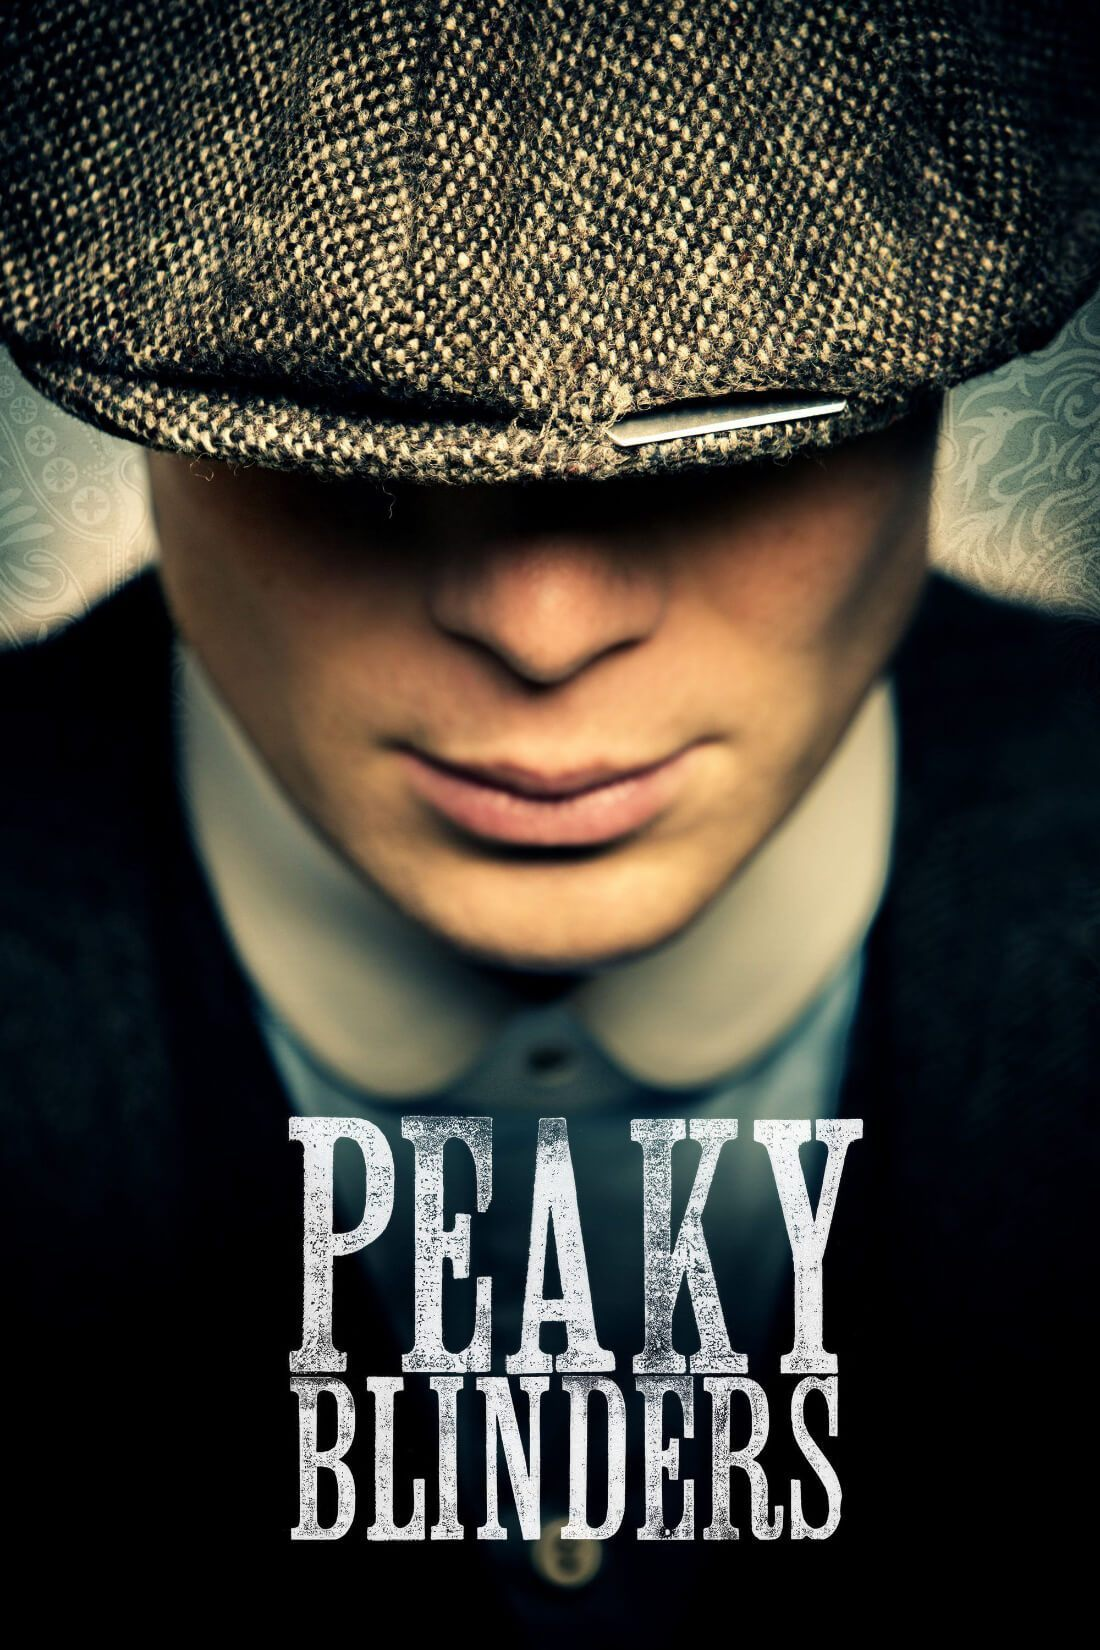
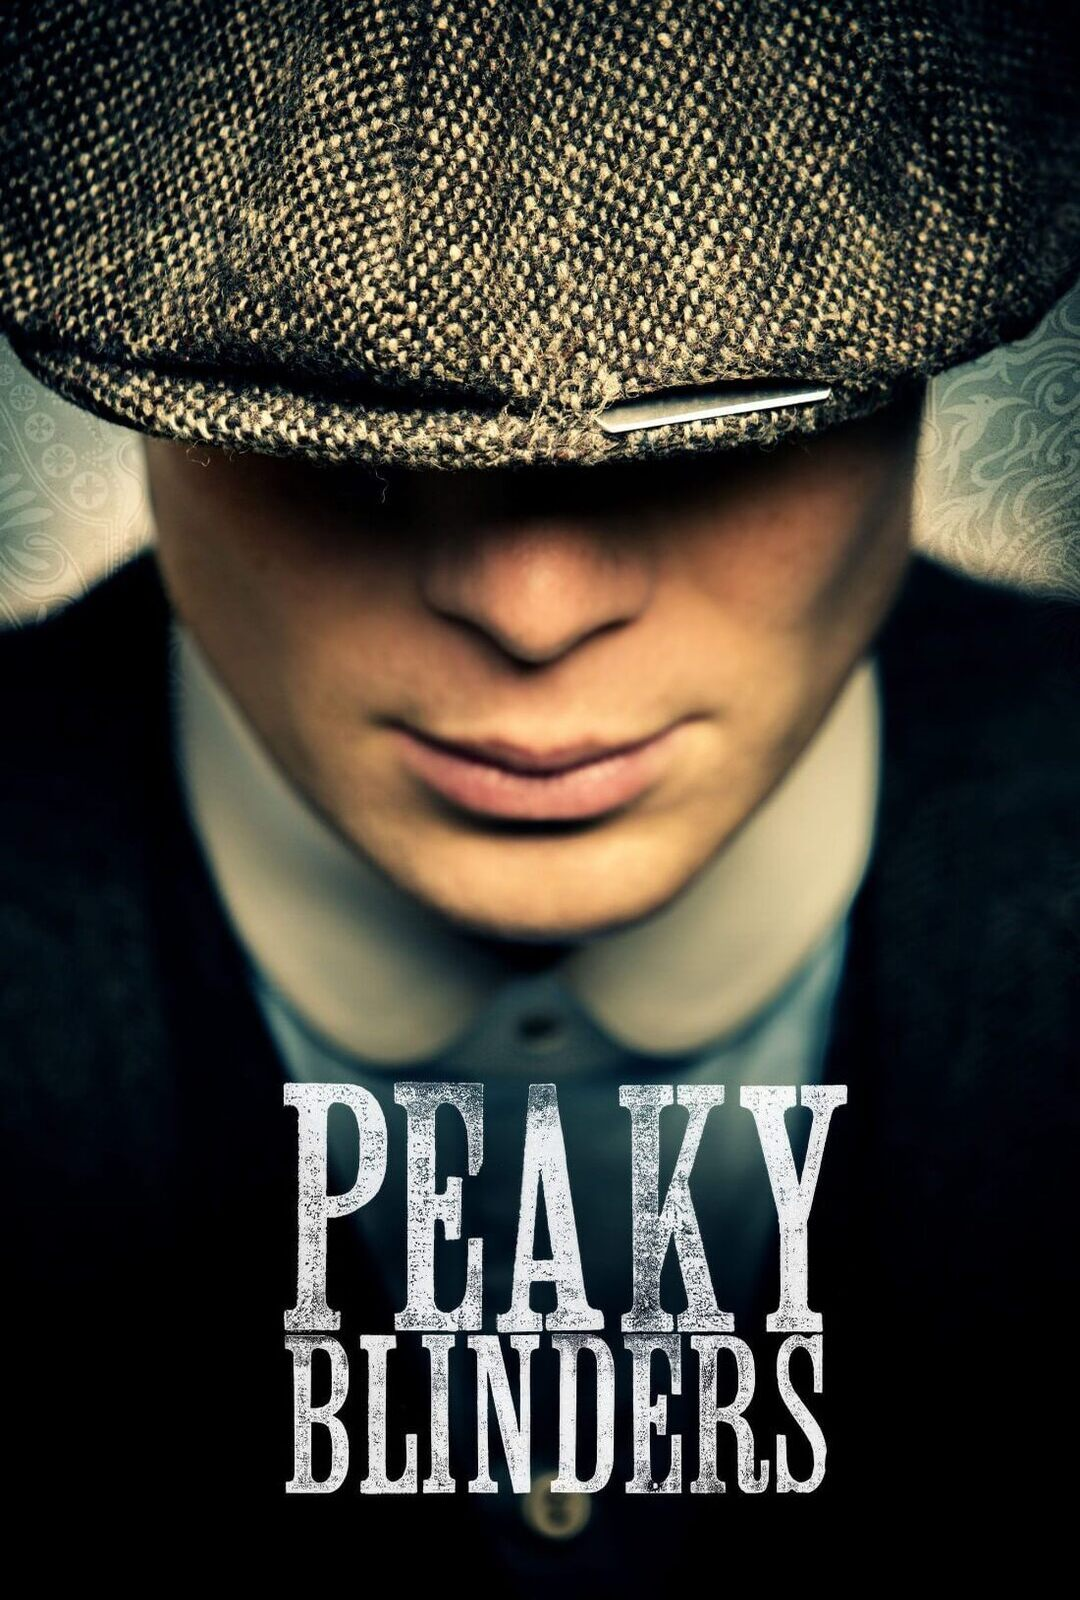
imagens redimensionadas

diff --git a/index.html b/index.html
@@ -49,31 +49,31 @@
                 <img class="box-filme" src="img/min1.jpg" alt="narcos">
             </div>
             <div class="item">
-                <img class="box-filme" src="img/min2.jpg" alt="narcos">
+                <img class="box-filme" src="img/min2.jpg" alt="la casa de papel">
             </div>
             <div class="item">
-                <img class="box-filme" src="img/min3.jpg" alt="narcos">
+                <img class="box-filme" src="img/min3.jpg" alt="round 6">
             </div>
             <div class="item">
-                <img class="box-filme" src="img/min4.jpg" alt="narcos">
+                <img class="box-filme" src="img/min4.jpg" alt="peaky blinders">
             </div>
             <div class="item">
-                <img class="box-filme" src="img/min5.jpg" alt="narcos">
+                <img class="box-filme" src="img/min5.jpg" alt="vikings">
             </div>
             <div class="item">
-                <img class="box-filme" src="img/min6.jpg" alt="narcos">
+                <img class="box-filme" src="img/min6.jpg" alt="breaking bad">
             </div>
             <div class="item">
-                <img class="box-filme" src="img/min7.jpg" alt="narcos">
+                <img class="box-filme" src="img/min7.jpg" alt="demon slayer">
             </div>
             <div class="item">
-                <img class="box-filme" src="img/min8.jpg" alt="narcos">
+                <img class="box-filme" src="img/min8.jpg" alt="demolidor">
             </div>
             <div class="item">
-                <img class="box-filme" src="img/min9.jpg" alt="narcos">
+                <img class="box-filme" src="img/min9.jpg" alt="dark">
             </div>
             <div class="item">
-                <img class="box-filme" src="img/min10.jpg" alt="narcos">
+                <img class="box-filme" src="img/min10.jpg" alt="lupin">
             </div>
         </div>
     </div>

diff --git a/style/main.css b/style/main.css
@@ -99,7 +99,10 @@ header nav a:hover {
 }
 
 .box-filme {
-    height: 385px;
-    width: 260px;
+    margin-top: 10px;
+    height: 100%;
+    width: 100%;
+    /* max-width: 385px; */
+    /* max-width: 260px; */
     display: block;
 }
